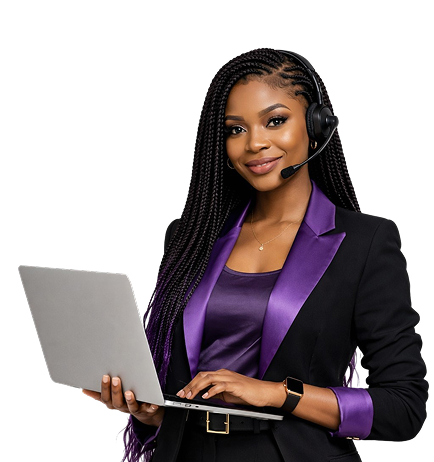
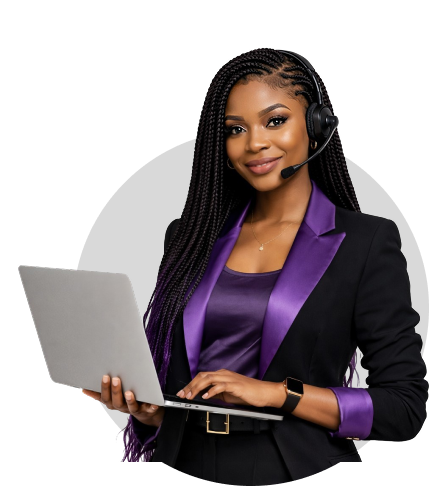
Add about image

diff --git a/src/App.tsx b/src/App.tsx
@@ -70,19 +70,23 @@ function App() {
       </div>
 
       {/* About */}
-      <section
-        id="about"
-        className="relative px-6 py-16 sm:py-20 md:px-8 lg:py-24"
-      >
+      <section id="about" className="relative px-6 py-16 sm:py-20 md:px-8">
         {/* LEFT HALF CIRCLE */}
         <div className="pointer-events-none absolute top-1/2 -left-80 h-100 w-100 -translate-y-1/2 rounded-full bg-[#7D52FD] blur-[200px]" />
         {/* RIGHT HALF CIRCLE */}
         <div className="pointer-events-none absolute top-1/2 -right-80 hidden h-100 w-100 -translate-y-1/2 rounded-full bg-[#7D52FD] blur-[200px] md:block" />
 
         <div className="container mx-auto">
-          <div className="grid grid-cols-1 gap-12 md:grid-cols-2 md:items-center">
+          <div className="grid grid-cols-1 items-center gap-12 md:grid-cols-2">
             {/* Image */}
-            <div></div>
+            <div className="place-self-center">
+              <img
+                src="/images/about.png"
+                width={360}
+                height={360}
+                alt="lady holding laptop"
+              />
+            </div>
             {/* Content */}
             <div>
               <h2 className="mb-6 text-4xl font-bold text-[#9D86FF]">
